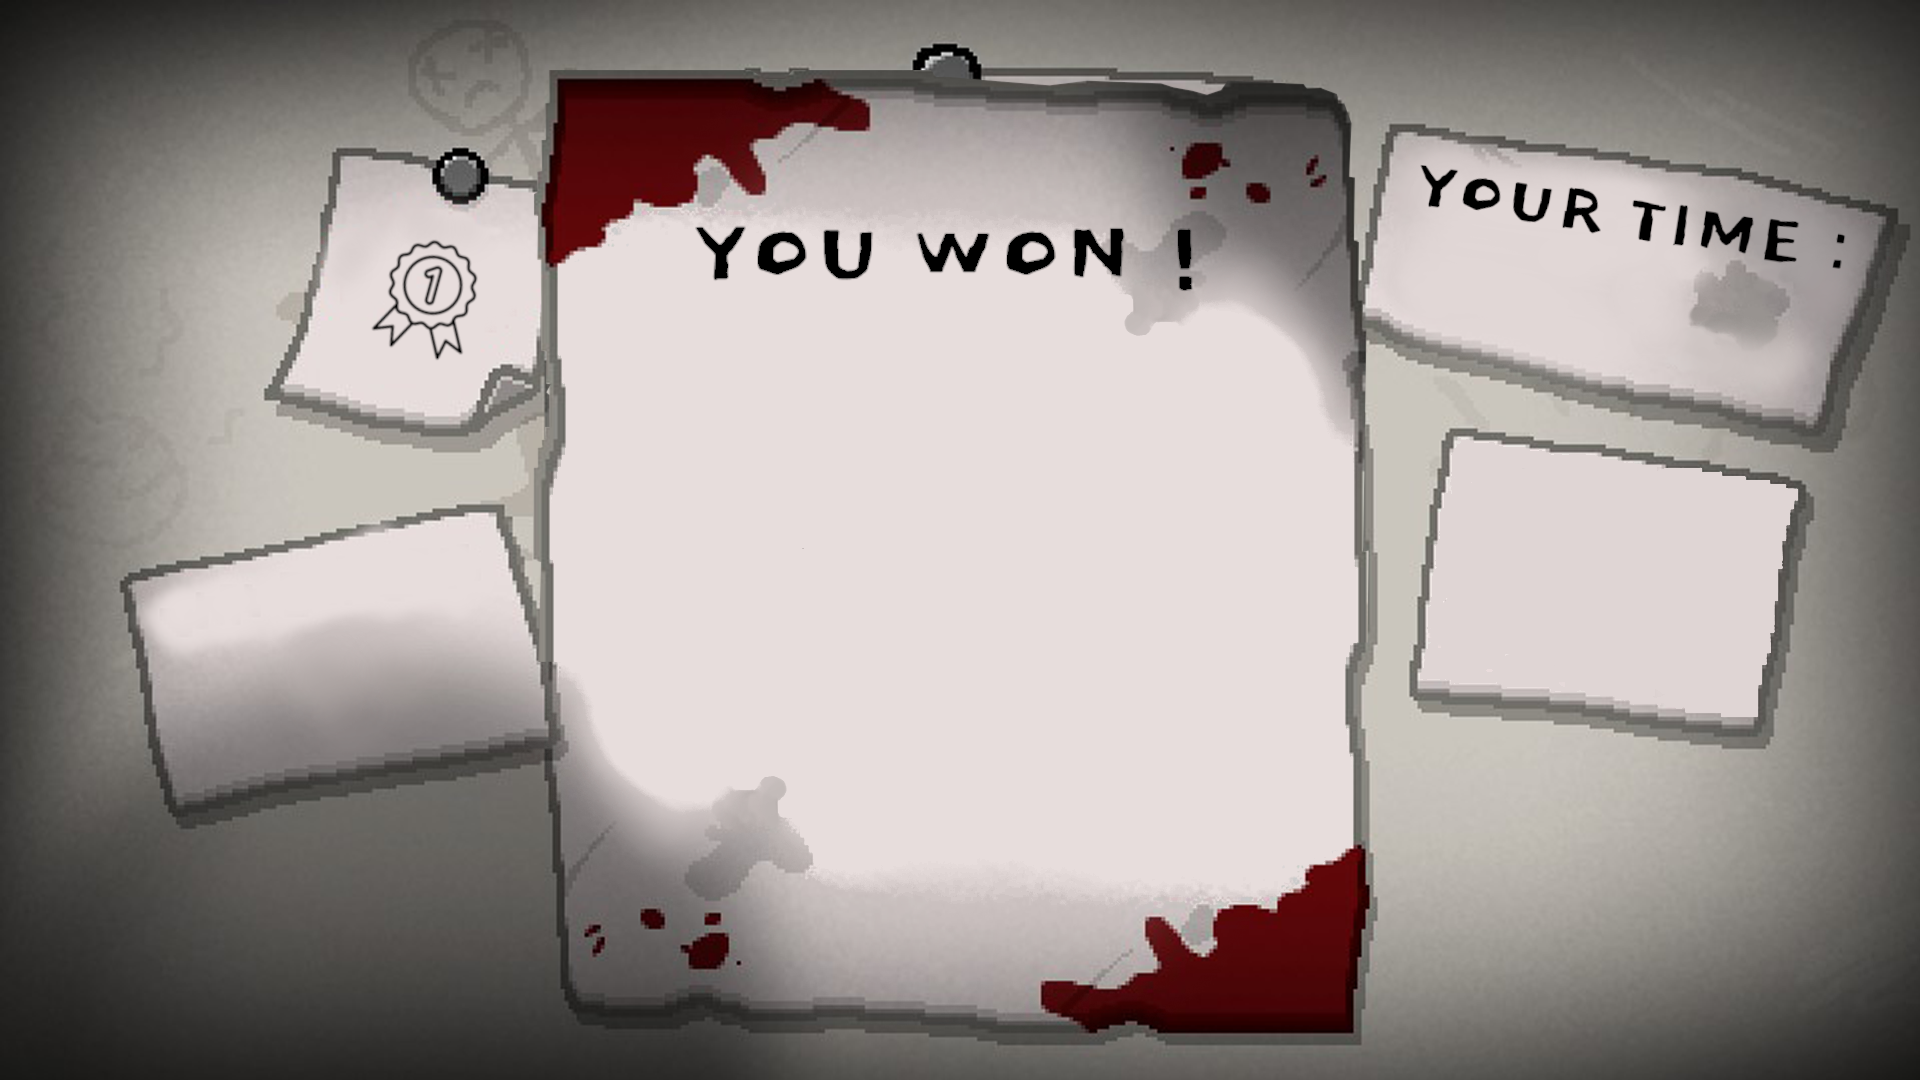
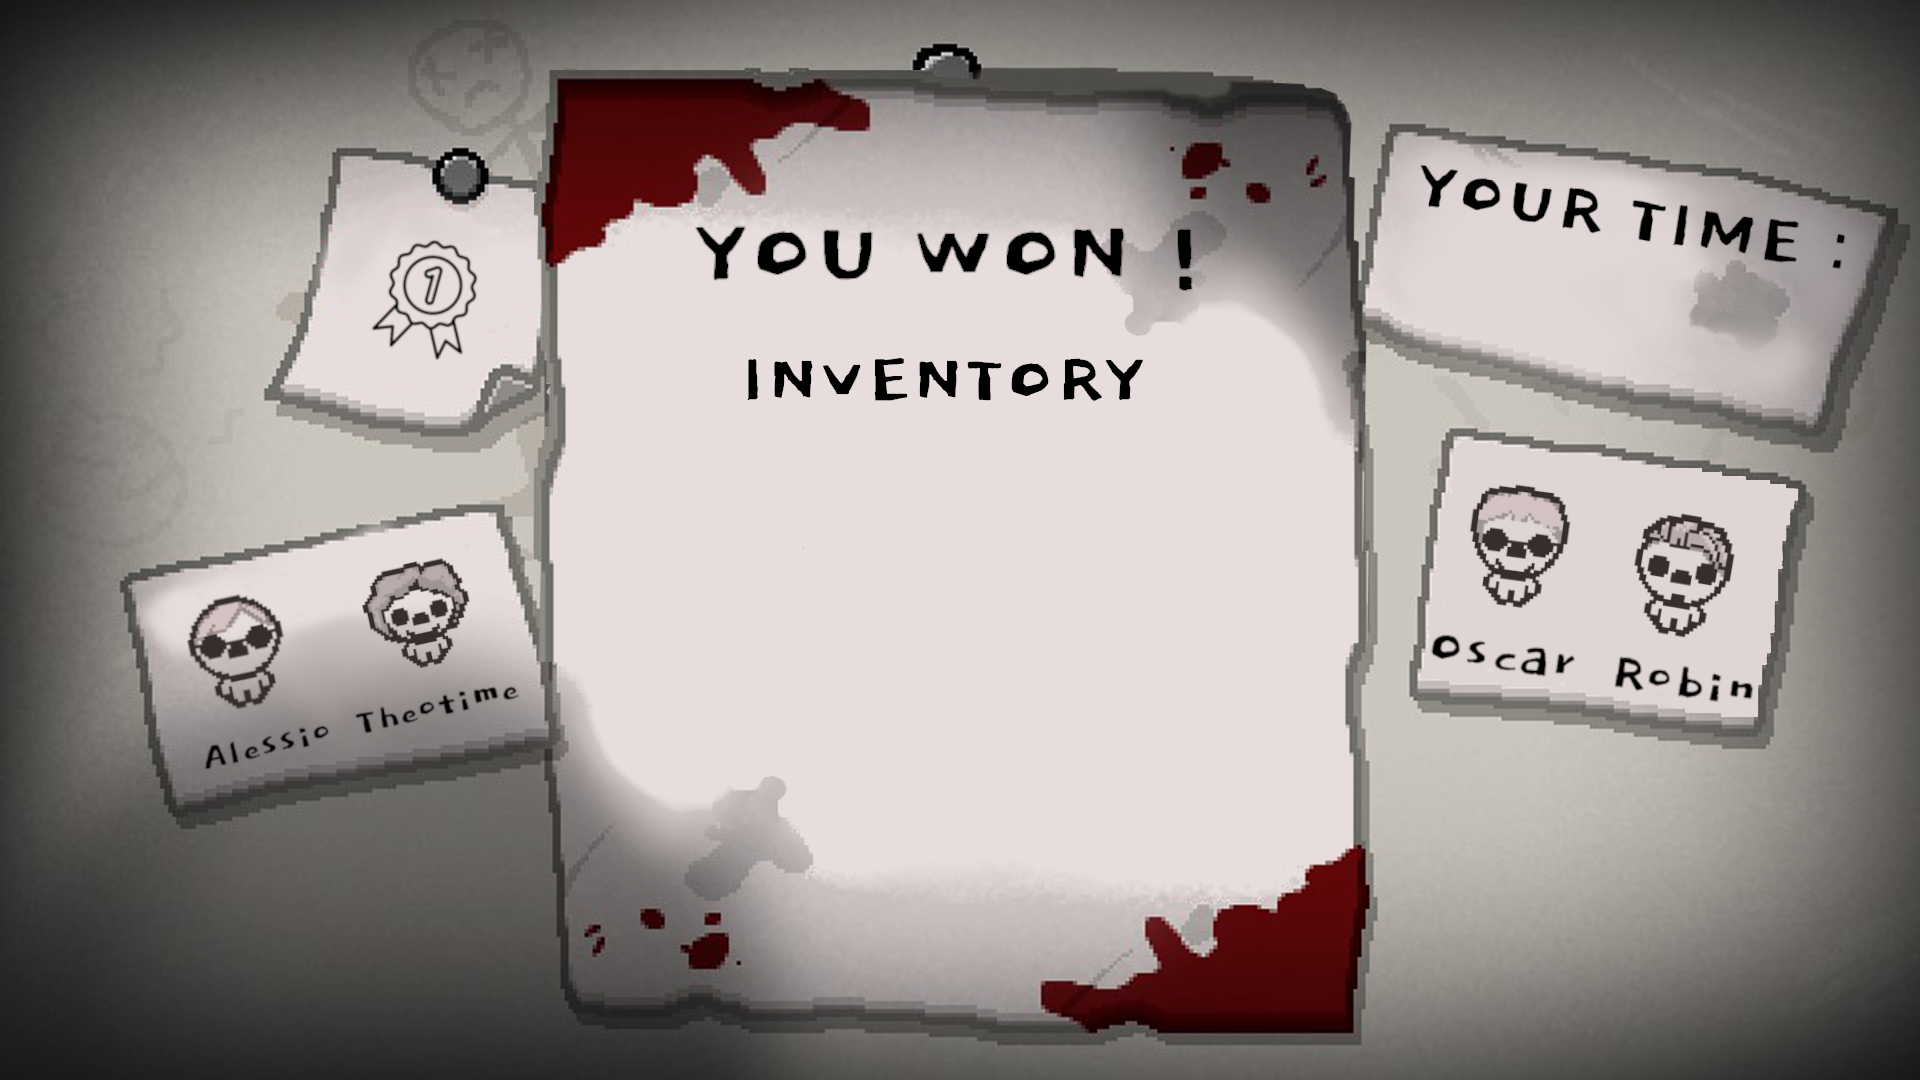
(+) print stuff on screen win

diff --git a/sources/main_func.c b/sources/main_func.c
@@ -57,7 +57,7 @@ int my_game(window *wndw, sfEvent event, reduce *red, options *sprt)
     wndw->window);
     is_touched_button(wndw, sprt);
     if (red->py->new_item) {
-        update_my_stuff(sprt,red->rm->old_i.old, red->rm->old_i.cp);
+        update_my_stuff(sprt, red->rm->old_i.old, red->rm->old_i.cp);
         red->py->new_item = false;
     }
     return 0;
@@ -115,6 +115,7 @@ int main_func(window *wndw, options *sprt, players *perso, rooms *ro)
         (sprt->begin == 2 || sprt->begin == 6 || sprt->begin == 3 && sprt->anim == 3) ? display_framebuffer(wndw, sprt) : 0;
         (sprt->begin == 7) ? draw_loose_scrn(wndw, sprt) : 0;
         (sprt->begin == 8) ? dwin_sprt(wndw, sprt) : 0;
+        (sprt->begin == 8) ? update_my_stuff_end(sprt, wndw) : 0;
         reduce_clear_display(wndw);
     }
     end_buffer(sprt);

diff --git a/sources/draw_my_stuff.c b/sources/draw_my_stuff.c
@@ -27,3 +27,16 @@ int update_my_stuff(options *opt, char **new_array, int new_len)
     opt->invent.len = new_len;
     return 1;
 }
+
+int update_my_stuff_end(options *opt, window *wndw)
+{
+    sfVector2f place = {750, 450};
+    for (int i = 0; i != opt->invent.len; ++i) {
+        sfSprite_setPosition(opt->invent.sprites[i], place);
+        place.x += 75;
+        sfSprite_setScale(opt->invent.sprites[i],
+        (sfVector2f) {3, 3});
+        sfRenderWindow_drawSprite(wndw->window, opt->invent.sprites[i], NULL);
+    }
+    return 1;
+}

diff --git a/includes/motor.h b/includes/motor.h
@@ -527,4 +527,6 @@ char get_actual_room_char(reduce *red);
 void touch_saler(saler_red_t rt, options *sprt, window *wndw, reduce *red);
 void draw_spause(window *wndw, options *sprt, reduce *red);
 void stop_all_clocks(reduce *red);
+int update_my_stuff_end(options *opt, window *wndw);
+
 #endif
